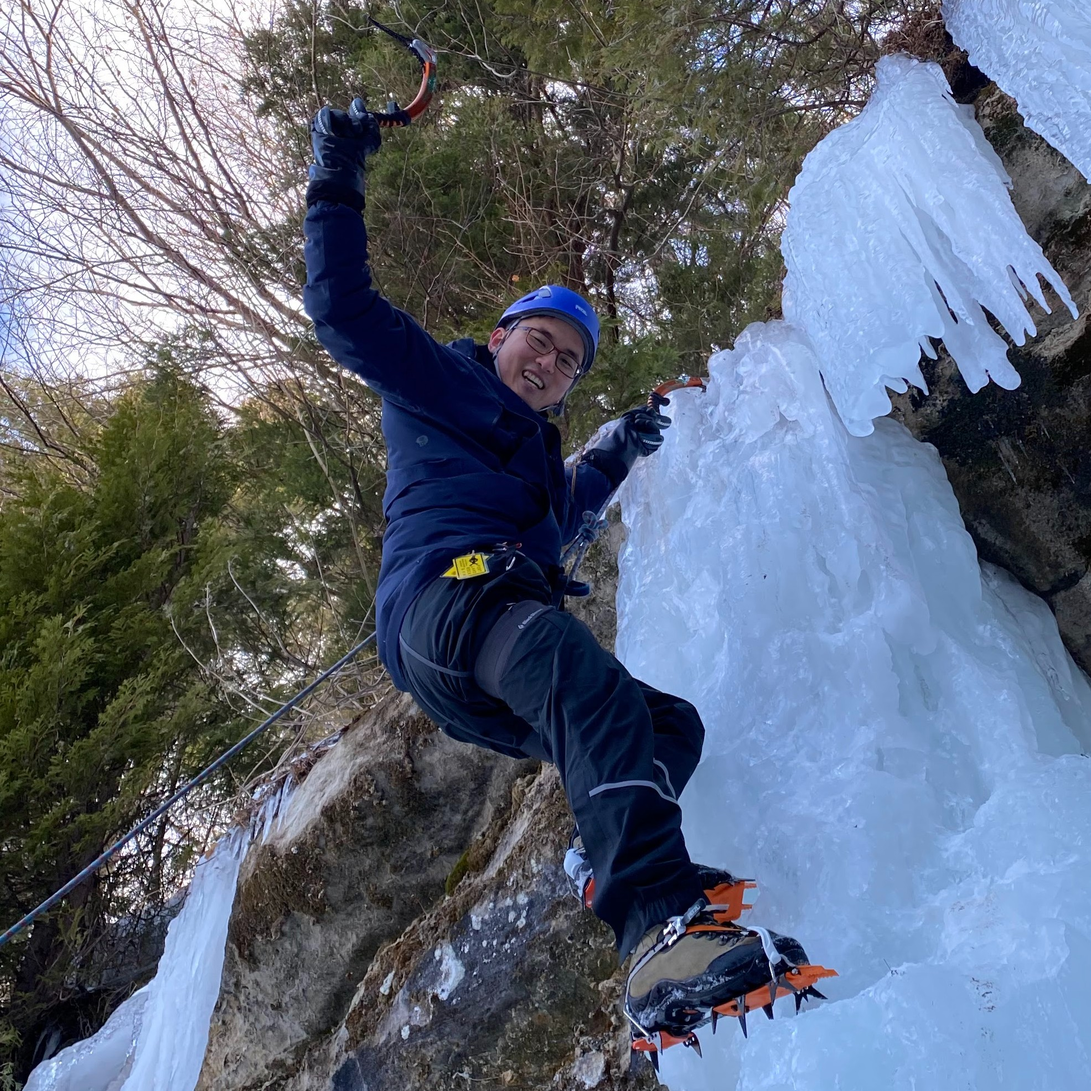
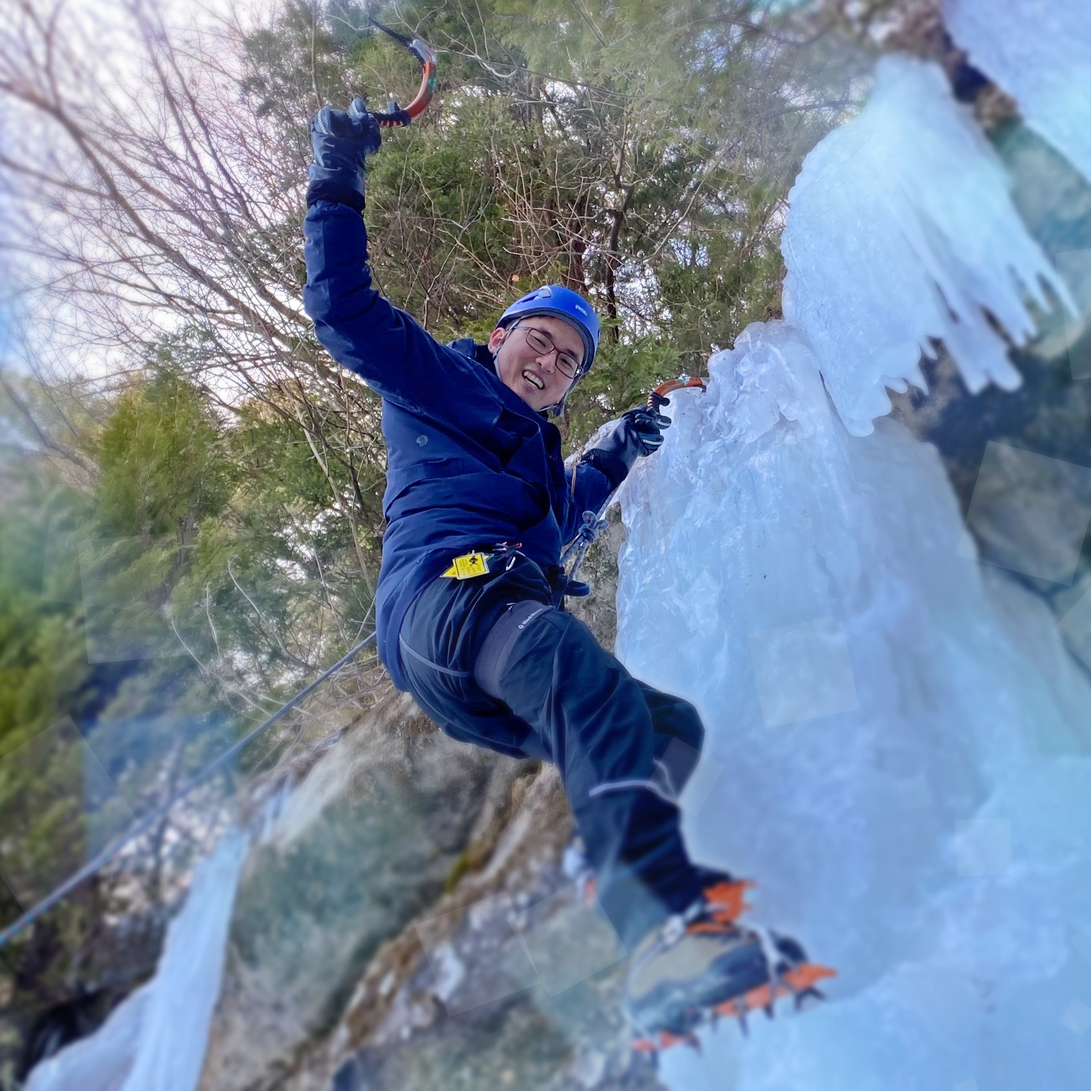
fixed Education section in about page. flex command not responding needs to be addressed.

diff --git a/src/components/Education.js b/src/components/Education.js
@@ -3,7 +3,7 @@ import { useScroll, motion } from "framer-motion"
 import LiIcon from "./LiIcon"
 
 const Details = ({ degree, school, time, location, info }) => {
-    const ref = useRef(null);
+    const ref = useRef(null)
     return (
         <li ref={ref} className="my-8 first:mt-0 last:mb-0 w-[60%] mx-auto flex flex-col items-center justify-between">
             <LiIcon reference={ref} />
@@ -12,12 +12,8 @@ const Details = ({ degree, school, time, location, info }) => {
                 whileInView={{ y: 0 }}
                 transition={{ duration: 0.5, type: "spring" }}
             >
-                <h3 className="capitalize font-bold text-2xl">
-                    {degree}
-                </h3>
-                <h4 className="font-bold">
-                    {school}
-                </h4>
+                <h3 className="capitalize font-bold text-2xl">{degree}</h3>
+                <h4 className="capitalize font-bold text-xl">{school}</h4>
                 <span className="capitalize font-medium text-dark/75">
                     {time} | {location}
                 </span>
@@ -30,6 +26,7 @@ const Details = ({ degree, school, time, location, info }) => {
     );
 };
 
+
 const Education = () => {
     const ref = useRef(null);
     const { scrollYProgress } = useScroll(
@@ -41,7 +38,7 @@ const Education = () => {
     return (
         <div className="my-64">
             <h2 className="font-bold text-8xl mb-32 w-full text-center">
-                Education
+                Professional Experience
             </h2>
 
             <div ref={ref} className="w-[75%] mx-auto relative">
@@ -52,25 +49,23 @@ const Education = () => {
                         school="Georgia Institute of Technology"
                         time="2014.08-2020.05"
                         location="Atlanta, GA, USA"
-                        info="Concentration in materials characterization and image processing."
+                        info="Developed multiscale electron microscopy framework that collected various microstructural information at mesoscale and nanoscale. 
+                            Combining SEM, EBSD, transmission Kikuchi diffraction, and TEM techniques provided a more holistic approach to probe the deformation behavior of metals. 
+                            Furthermore, the statistical correlation between microstructural defects and strain localization in deformed metals based on mesoscale data 
+                            can be confirmed using nanoscale data. Ultimately, this framework provided a more comprehensive approach to understanding how various microstructural defects
+                            affect the deformation behavior of aluminum alloys."
                     />
+
+                    {/* Thesis dissertation link: https://repository.gatech.edu/entities/publication/9c2ac82e-555e-4c38-8642-a738c1121448 */}
 
                     <Details
                         degree="Bachelor of Science in Materials Science and Engineering"
                         school="Korea University"
                         time="2010.03-2014.08"
-                        location="Seoul, South Korea"
-                        info="Coursework focused on semiconductors."
+                        location="Atlanta, GA, USA"
+                        info="Coursework focused primarily on semiconductor processing and solid state physics. 
+                            Soft skills gained during undergraduate years include: C++, Japanese (JLPT N2), and technical writing"
                     />
-
-                    <Details
-                        degree="Foreign Exchange Program"
-                        school="Nagoya University"
-                        time="2012.04-2012.08"
-                        location="Nagoya, Aichi Prefecture, Japan"
-                        info="Foreign exchange program for learning Japanese language and culture."
-                    />
-
                 </u1>
             </div>
         </div>

diff --git a/src/pages/about.js b/src/pages/about.js
@@ -3,7 +3,7 @@ import Layout from "@/components/Layout"
 import Head from "next/head"
 import Image from "next/image"
 import React from "react"
-import profilePic from "../../public/images/profile/ice_climbing.jpg";
+import profilePic from "../../public/images/profile/ice_climbing_cropped.jpg";
 import Skills from "@/components/Skills"
 import Experience from "@/components/Experience"
 import Education from "@/components/Education"
@@ -19,6 +19,12 @@ const about = () => {
                 <Layout className="pt-16">
                     <AnimatedText text="A picture is worth a thousand words" className="mb-16" />
                     <div className="grid w-full grid-col-8 gap-16">
+                        
+                        <div className="col-span-2 relative h-max rounded-2xl border-2 border-solid border-dark bg-light p-8">
+                            <div className="absolute top-0 -right-3 -z-10 w-[102%] h-[103%] rounded-[2rem] bg-dark" />
+                            <Image src={profilePic} alt="Yoo" className="w-full h-auto rounded-2xl" />
+                        </div>
+                        
                         <div className="col-span-3 flex flex-col items-start justify-start">
                             <h2 className="mb-4 text-lg font-bold uppercase text-dark/75">About Me</h2>
 
@@ -39,15 +45,15 @@ const about = () => {
                                 With this online portfolio, I hope to explore interesting ways to visualize numerical data and process images.
                                 I look forward to the day when I can discuss my work with people from different areas of expertise.
                             </p>
-
-                        </div>
-
-                        <div className="col-span-2 relative h-max rounded-2xl border-2 border-solid border-dark bg-light p-8">
+                        
+                        
+                        {/* <div className="col-span-2 relative h-max rounded-2xl border-2 border-solid border-dark bg-light p-8">
                             <div className="absolute top-0 -right-3 -z-10 w-[102%] h-[103%] rounded-[2rem] bg-dark" />
                             <Image src={profilePic} alt="Yoo" className="w-full h-auto rounded-2xl" />
+                        </div> */}
+                        
                         </div>
                     </div>
-
 
                     <Experience />
                     <Education />

diff --git a/src/components/Experience.js b/src/components/Experience.js
@@ -81,7 +81,7 @@ const Experience = () => {
                         company="Georgia Institute of Technology"
                         time="2014.08-2020.08"
                         location="Atlanta, GA, USA"
-                        work="Pursed a Doctorate in Materials Science and Engineering under Professor Josh Kacher focusing on developing multiscale electron microscopy techniques to study the deformation behavior of aluminum alloys under three-point bending. 
+                        work="Pursued a Doctorate in Materials Science and Engineering under Professor Josh Kacher focusing on developing multiscale electron microscopy techniques to study the deformation behavior of aluminum alloys under three-point bending. 
                             Developed a MATLAB script counting the number of dispersoid particles and their area fractions in STEM images. 
                             Combined high resolution EBSD, focused ion beam, and TEM data to investigate the microstructural changes in stress-tested aluminum. 
                             Quantify strain accumulation near microstructural defects using data science techniques."
